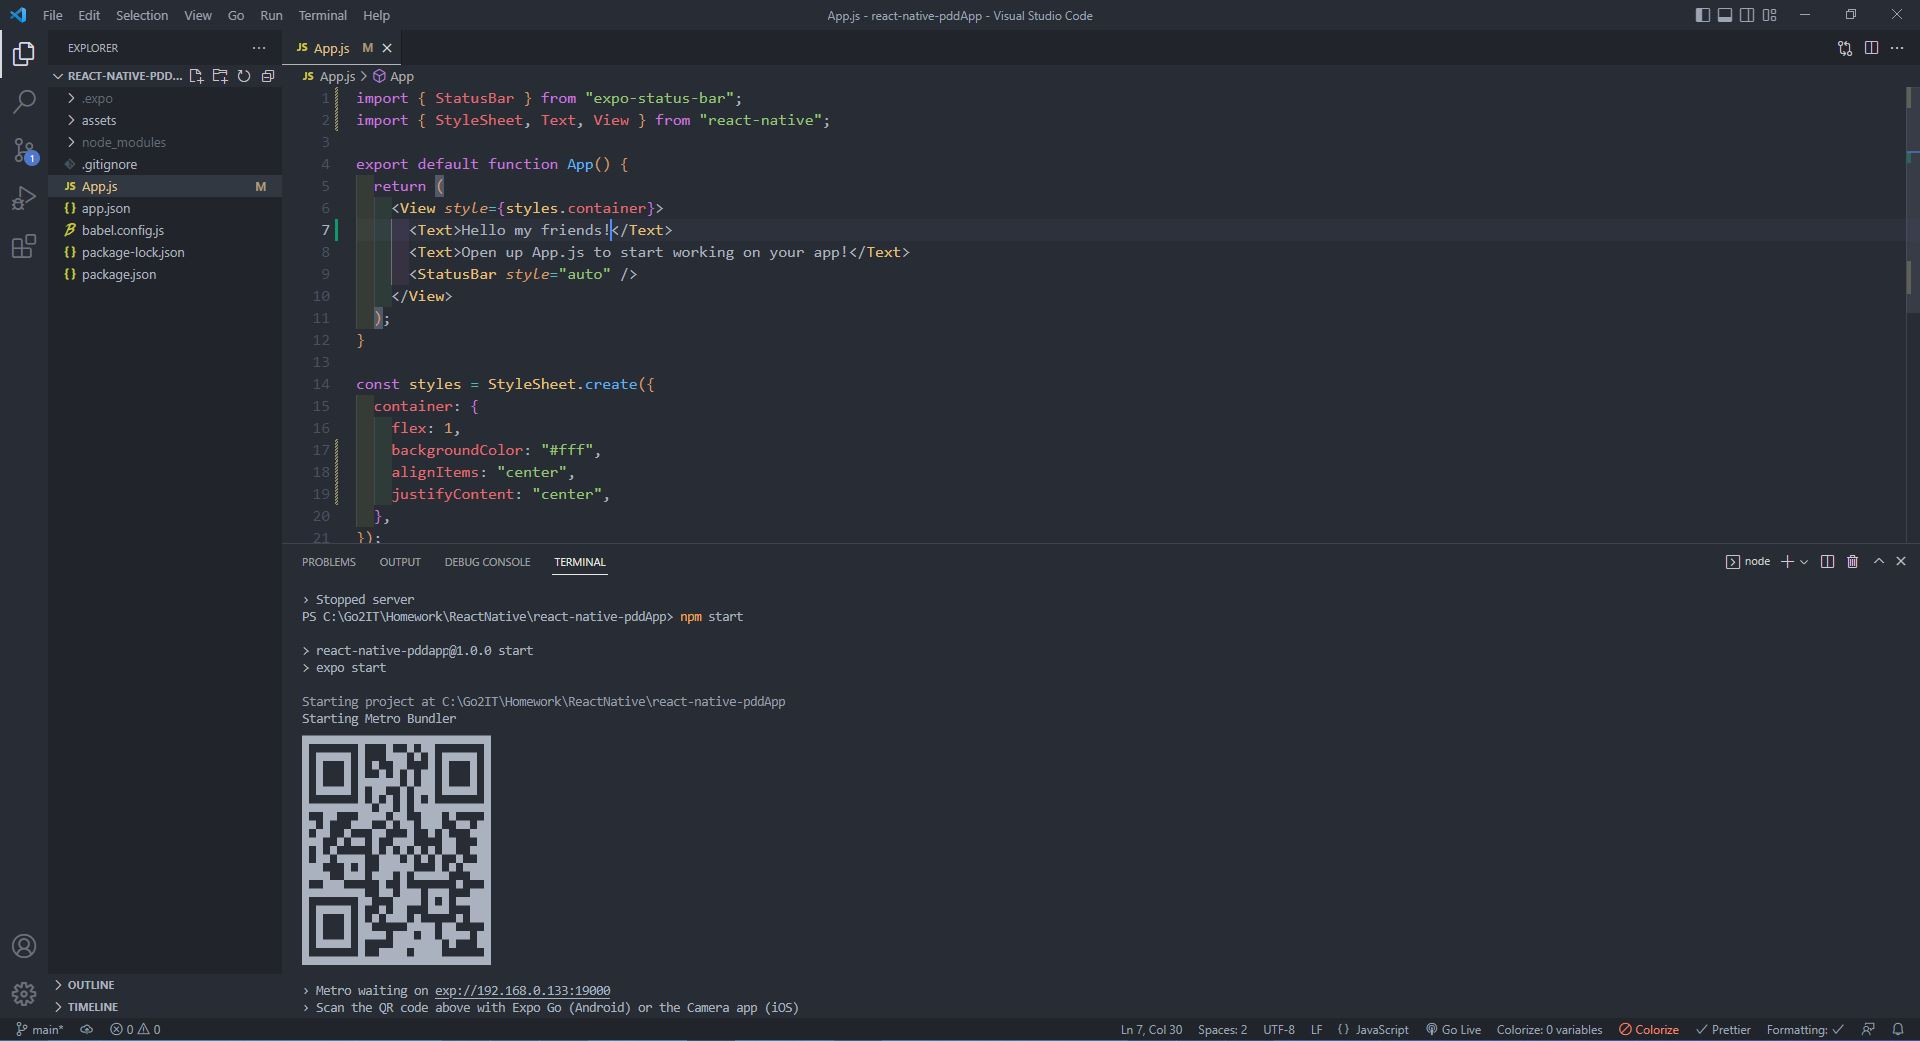
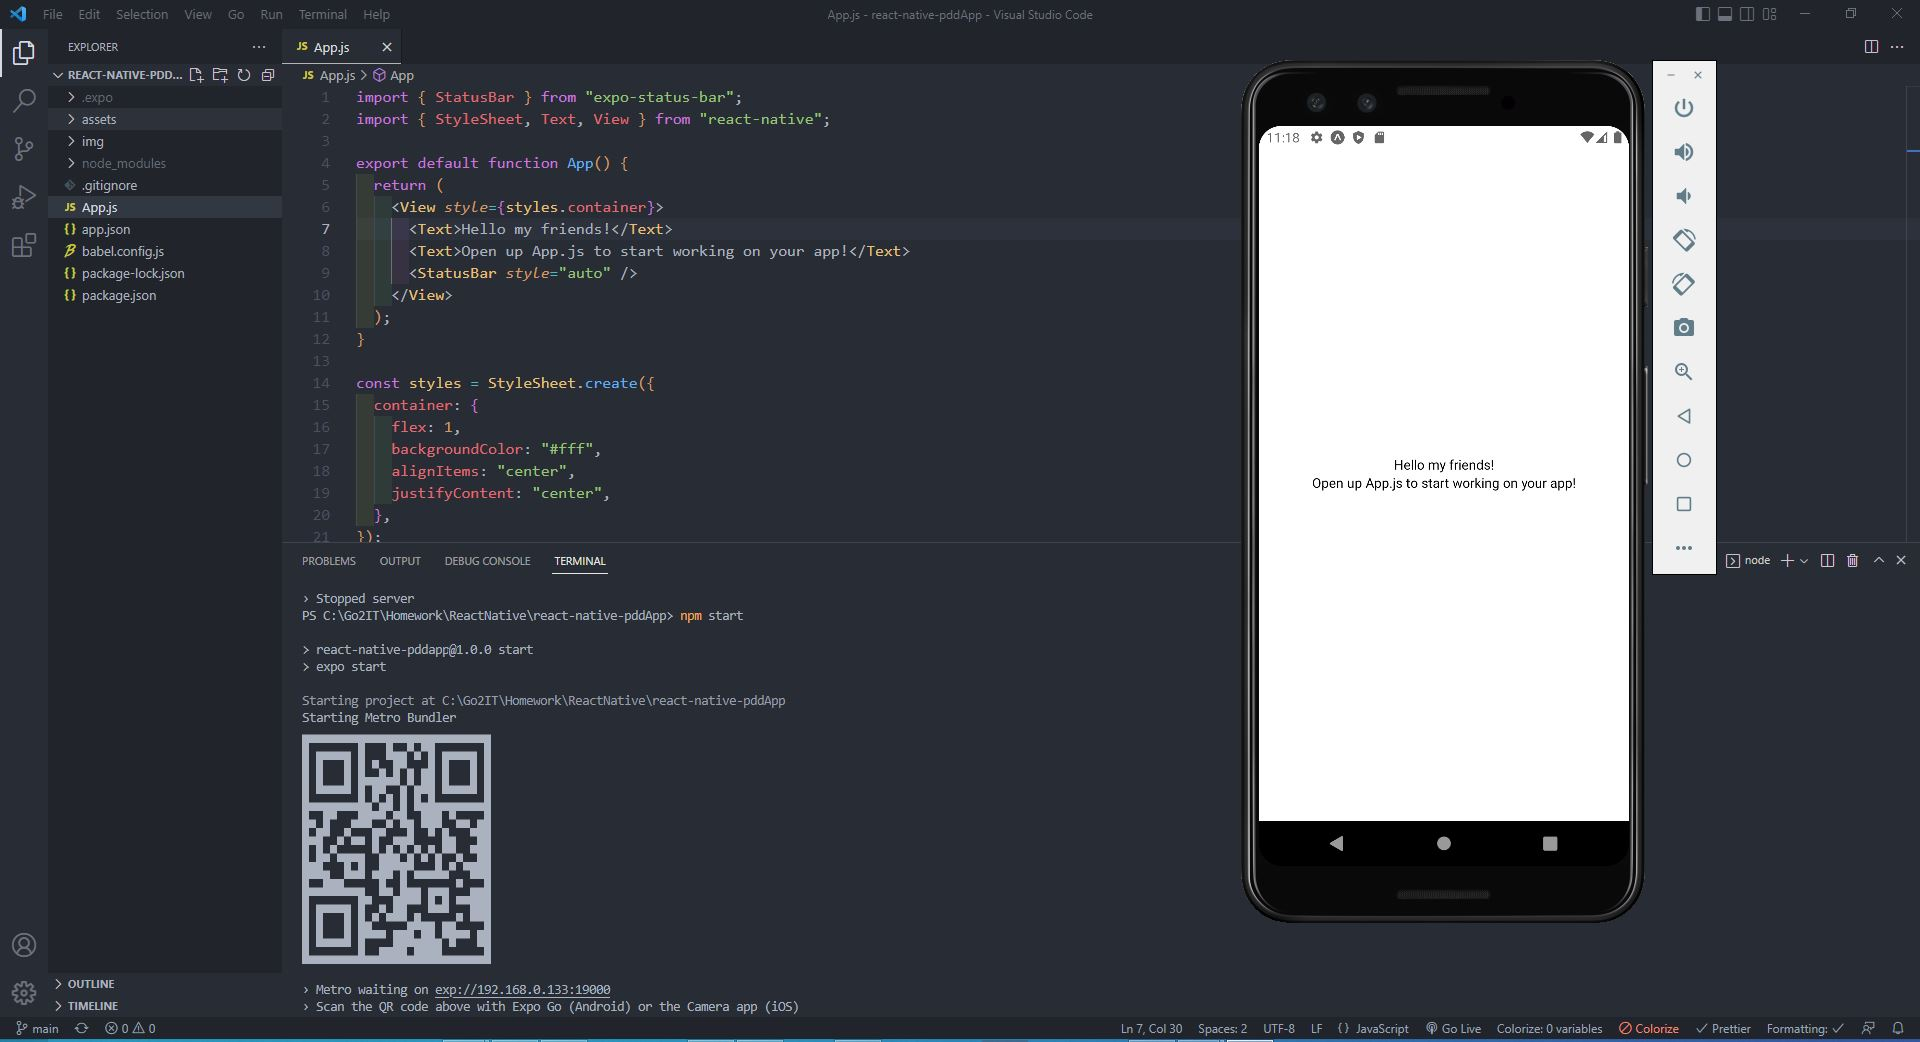
add url for screen

diff --git a/readme.md b/readme.md
@@ -1,0 +1,2 @@
+#screen of app
+https://drive.google.com/file/d/1CUIUhPiVJzWyghmnTer2xOZhAgFqLUqQ/view?usp=sharing
